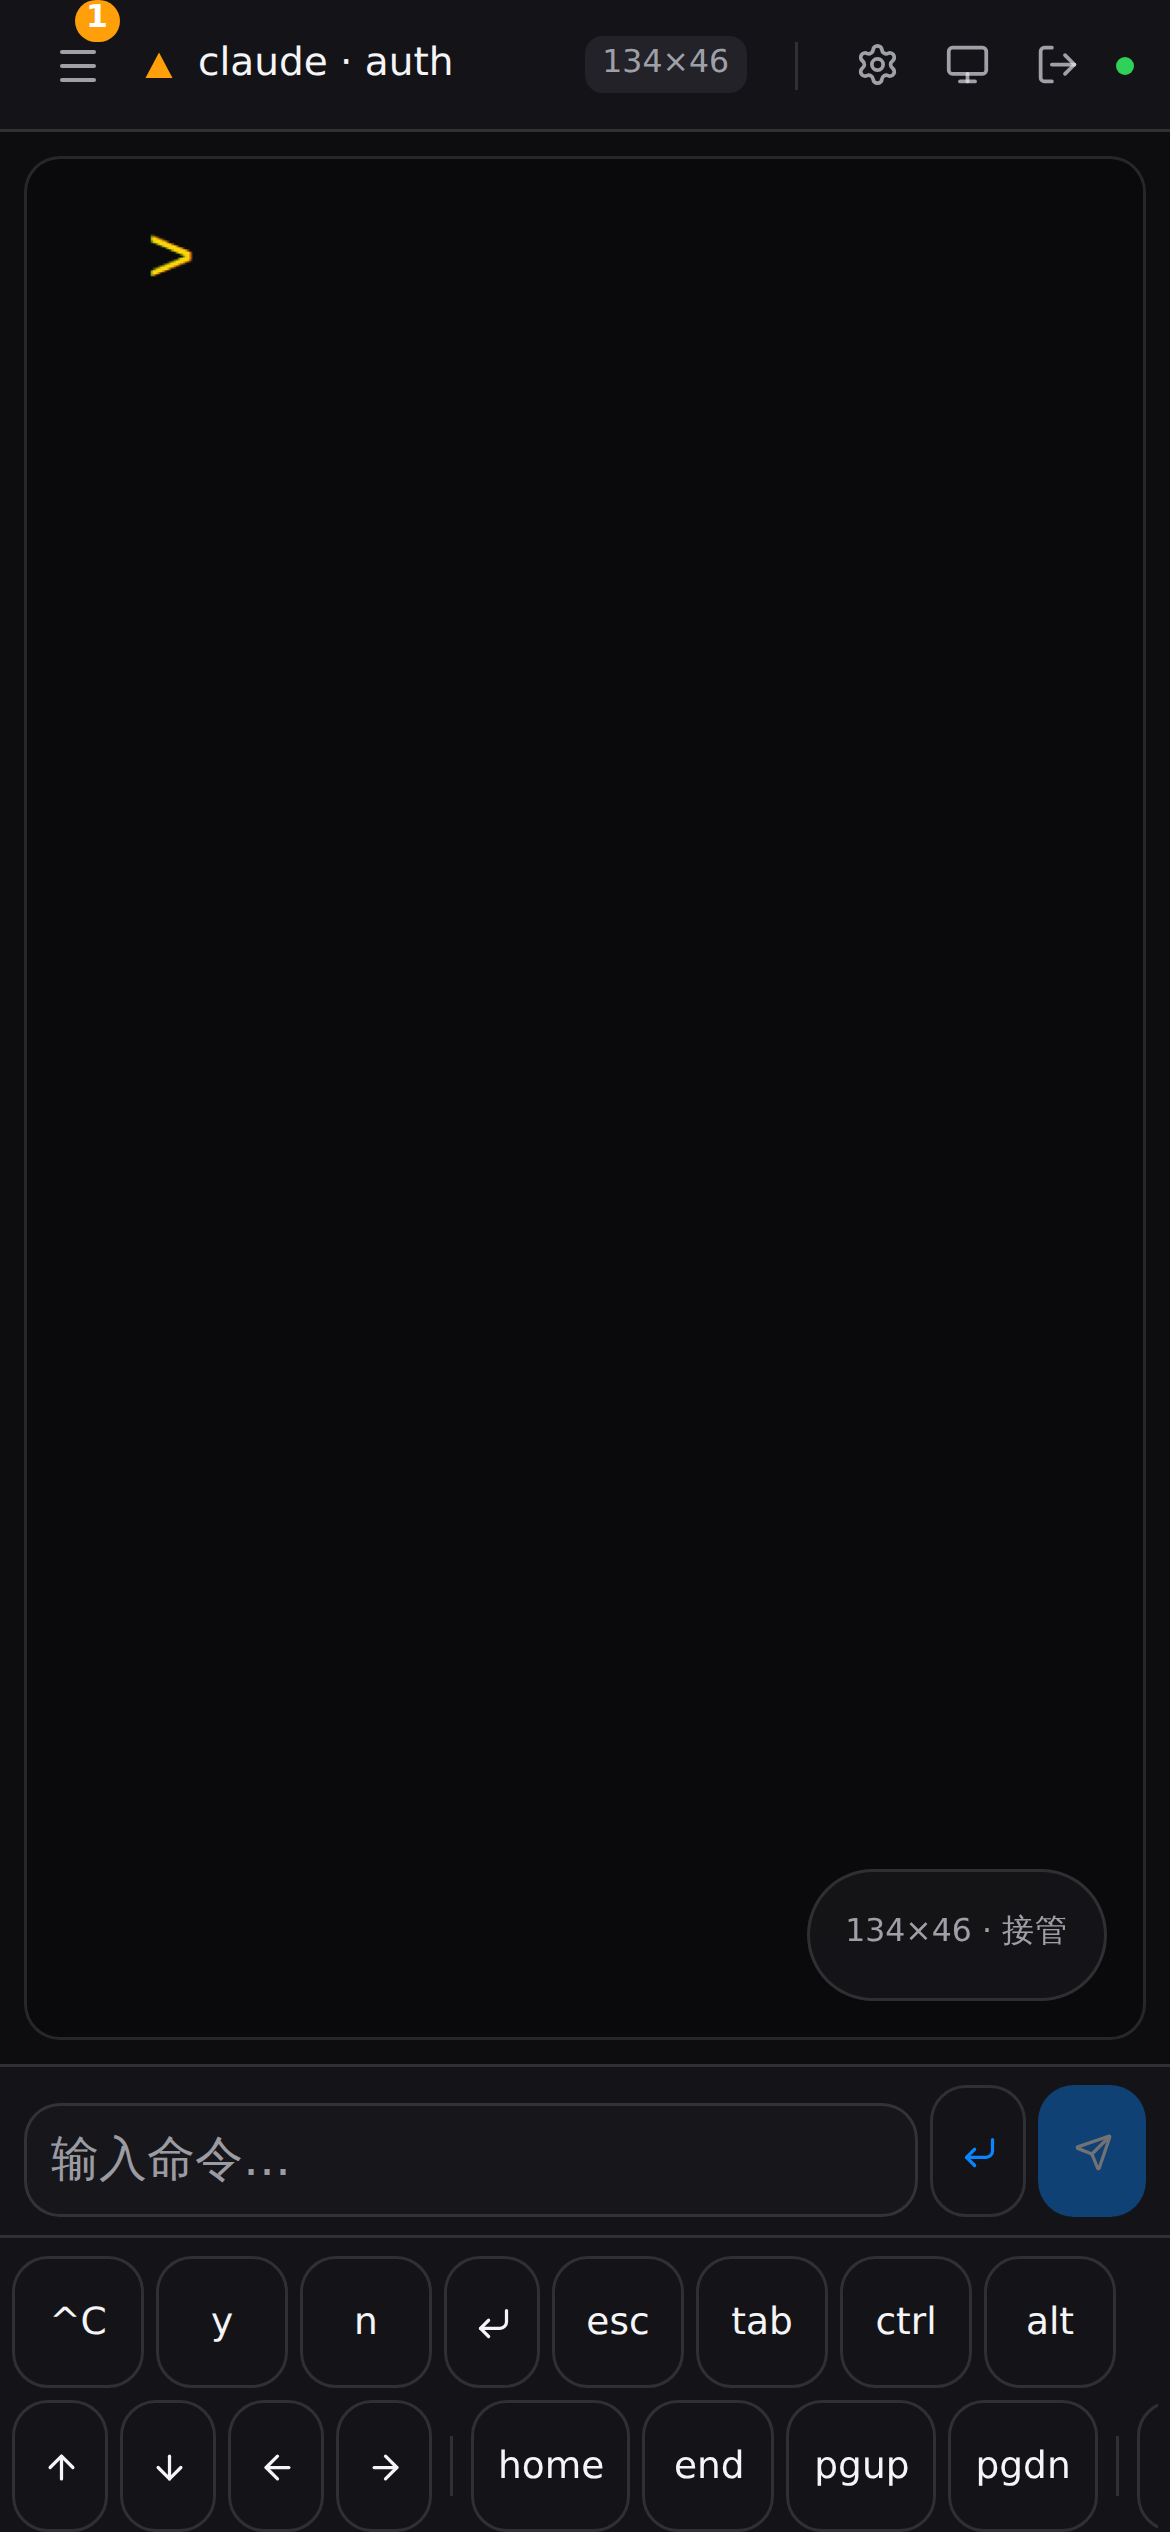
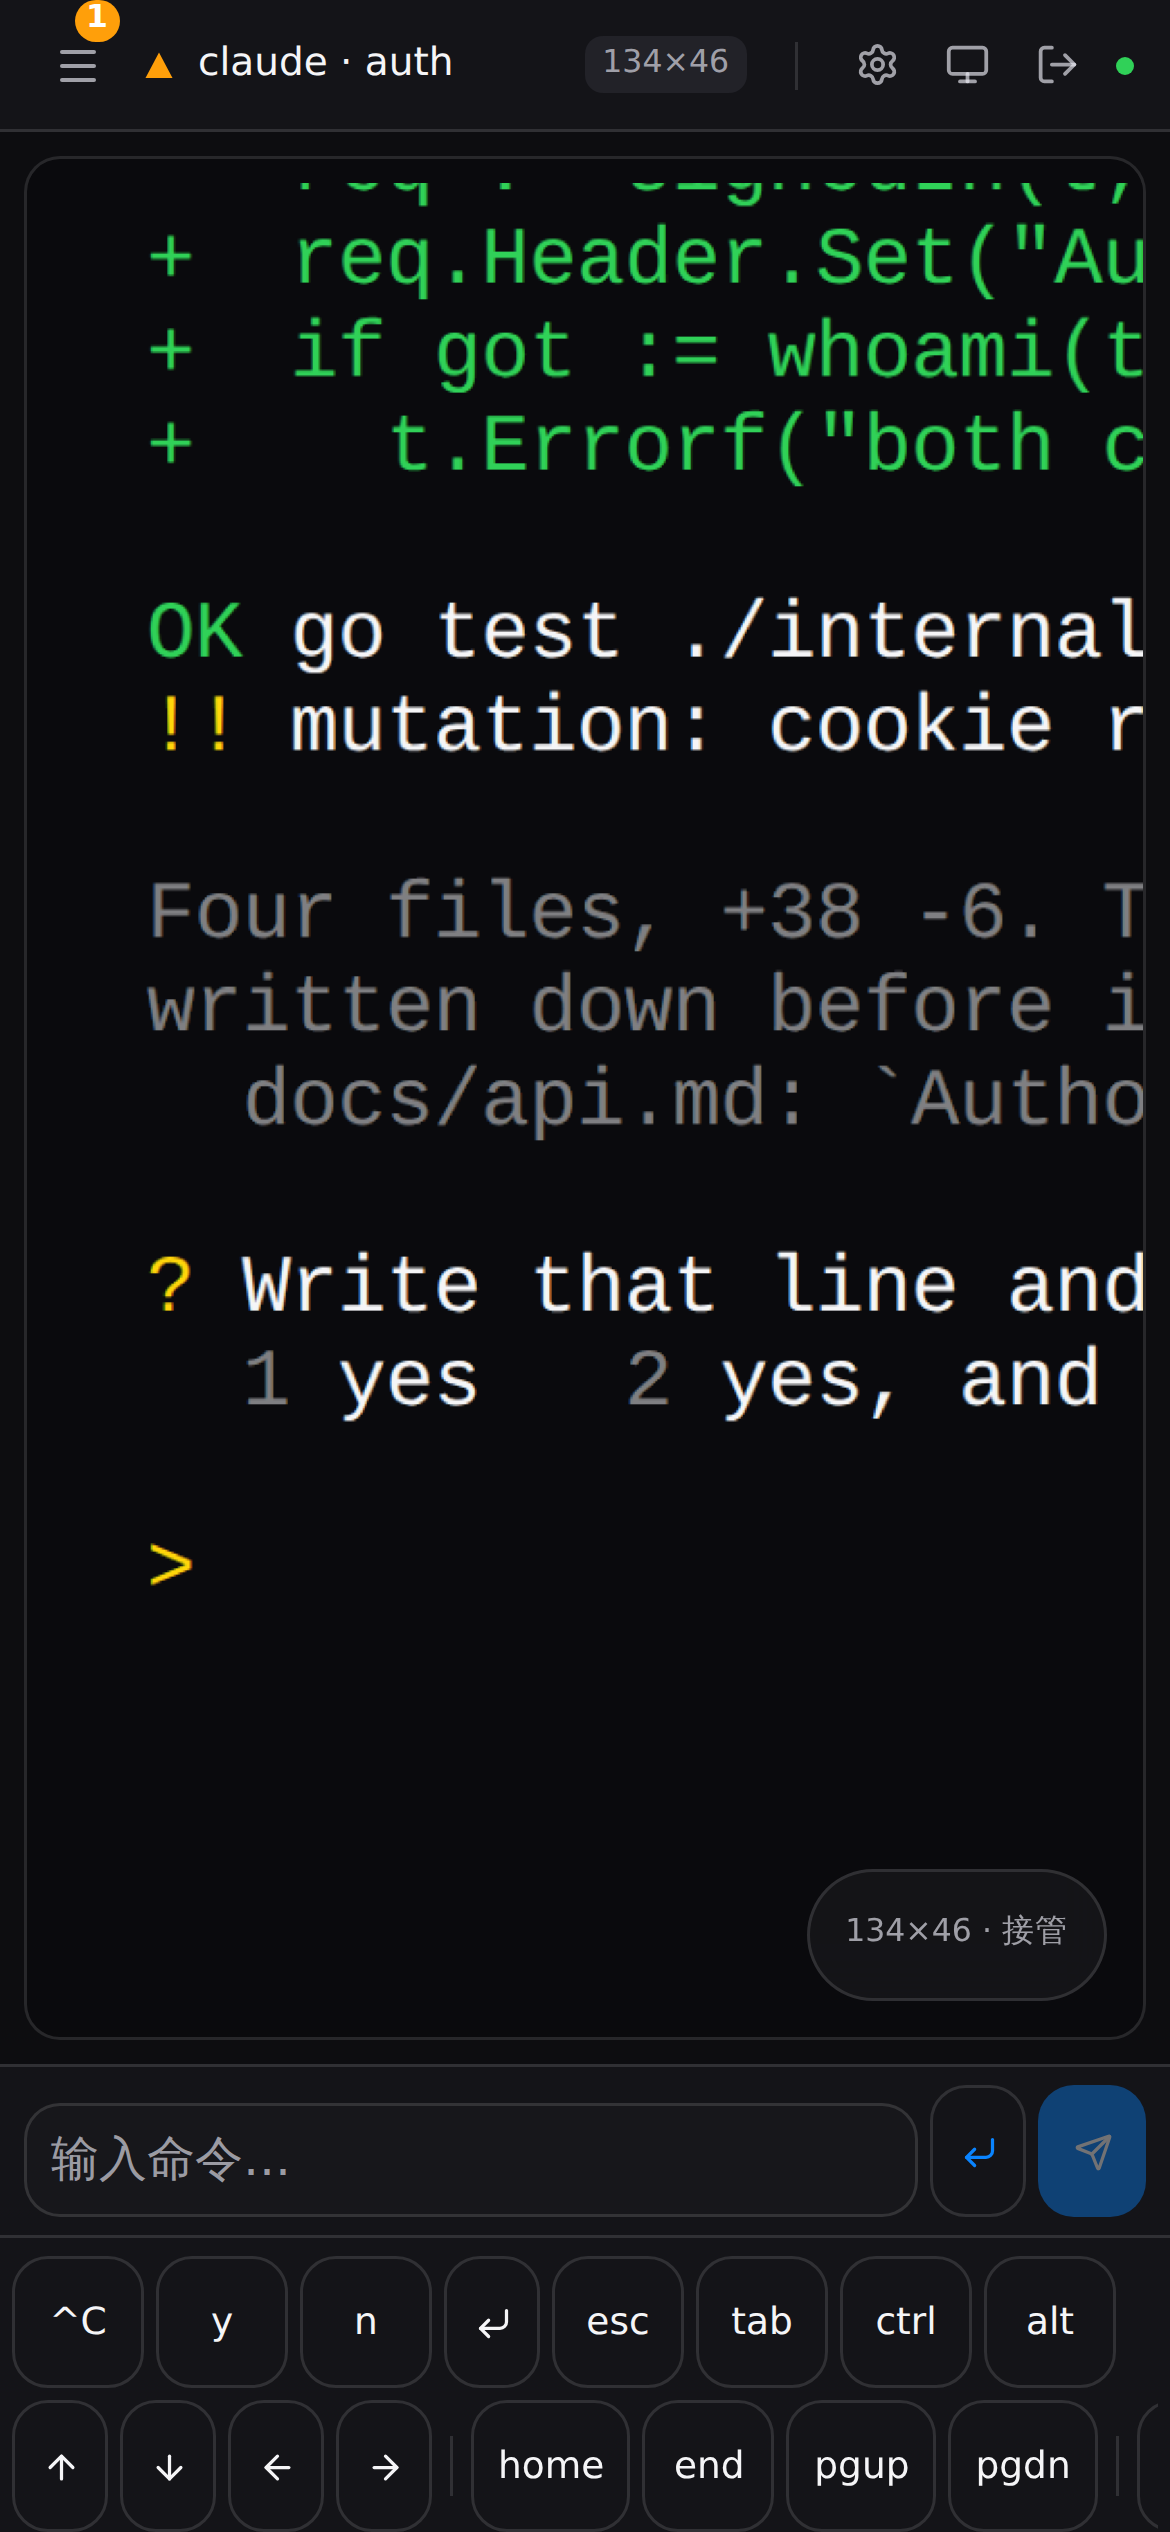
docs: a hero image of the panel doing something
The screenshot was a panel that had never done anything: a terminal 80%
black below a short prompt, a spend block reading four zeros, an empty
strip along the bottom. shots.mjs says in its own header that a
screenshot of an empty terminal is a photograph of the background
colour; the panel around it had the same problem.

The session now finishes its work -- forty-four lines against a
forty-six row pane, with a scrollbar. Fourteen days of transcripts are
seeded into the throwaway HOME, because the spend block reads the
agents' own files and a fresh home has none. And the bottom strip ran
`exec sh` after printing, so a prompt repainted over what it had said.

The caption under the hero is gone in both READMEs.

diff --git a/docs/build-log.md b/docs/build-log.md
@@ -16991,3 +16991,31 @@ was the first attempt. `--text-vp-sm` and friends are literals in `@theme`,
 which inlines them into every utility it generates, so a descendant redefining
 one changes nothing — the same trap that made the wall scale inert twice today.
 A ternary is duller and it is a thing that can be read.
+
+### A hero image of a panel with nothing in it
+
+「你的头图放张工作页面啊」, and the long caption under it deleted.
+
+The screenshot was a panel that had never done anything: a terminal 80% black
+below a short prompt, a spend block reading four zeros, and an empty strip along
+the bottom. `shots.mjs` says in its own header that a screenshot of an empty
+terminal is a photograph of the background colour — and the panel around it had
+the same problem.
+
+Three fixes, all in the shot rather than in the product:
+
+**The session now finishes its work.** The transcript ran to about half the
+pane; it answers its own question, edits, builds, writes the test, and mutates
+it to prove the test fails when the change is undone. Forty-four lines against
+a forty-six row pane, and a scrollbar, because a terminal with scrollback in it
+looks like a terminal that has been used.
+
+**Fourteen days of transcripts are seeded into the throwaway `$HOME`.** The
+spend block reads the agents' own files, and a fresh home has none — so every
+screenshot ever taken showed a panel that had counted nothing beside a terminal
+full of work. Two agents, weekday-shaped, so the block has a hero, a week, a
+project and a sparkline with a shape rather than a flat line.
+
+**The bottom strip's session ran `exec sh` after printing.** A shell draws a
+prompt, and whatever repaints after that left the strip black in every
+screenshot. It sleeps instead.

diff --git a/README.md b/README.md
@@ -17,13 +17,6 @@
 
 ![The panel](docs/images/panel-dark.png)
 
-<sup>The sidebar is every session, grouped by project, with whatever is blocked
-on a human at the top. Triangle: stopped to ask a question. Circle: still
-working. Check: finished. Cross: exited non-zero. The strip along the bottom is
-a scratch terminal attached to the selected session. On the right, the project's
-files under a line naming its branch and what is uncommitted, and beneath both
-the token spend and the machine.</sup>
-
 ## What it is
 
 vibepanel is a single Go binary that serves one web page. Every session it

diff --git a/README.zh-CN.md b/README.zh-CN.md
@@ -17,10 +17,6 @@
 
 ![面板](docs/images/panel-zh.png)
 
-<sup>左栏是全部会话，按项目分组，卡住的排在最上面。三角：停下来问话了。圆点：还在干活。
-对勾：跑完了。叉：进程非零退出。中间下方那一条是挂在当前会话下的便签终端。右栏是这个项目的
-文件树，上面一行写着分支和有多少没提交，底下是 token 用量和机器状态。</sup>
-
 ## 这是什么
 
 vibepanel 是一个 Go 单二进制，起一个网页。它创建的每个会话都是一个真的 tmux 会话，
